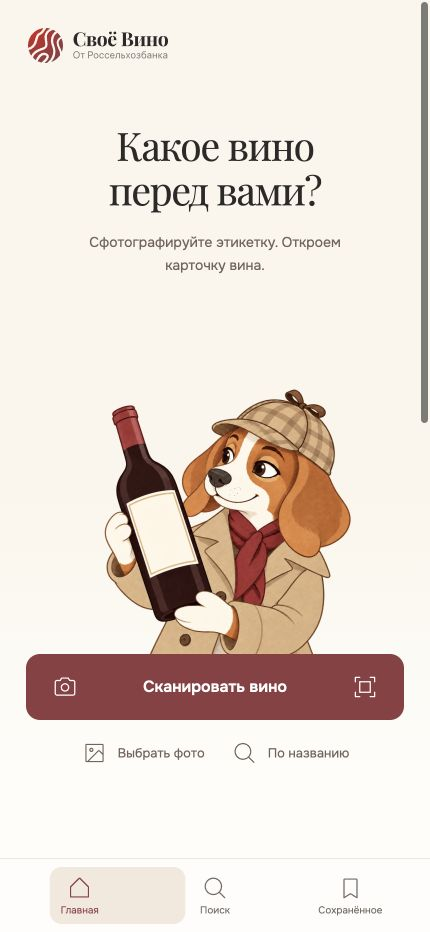
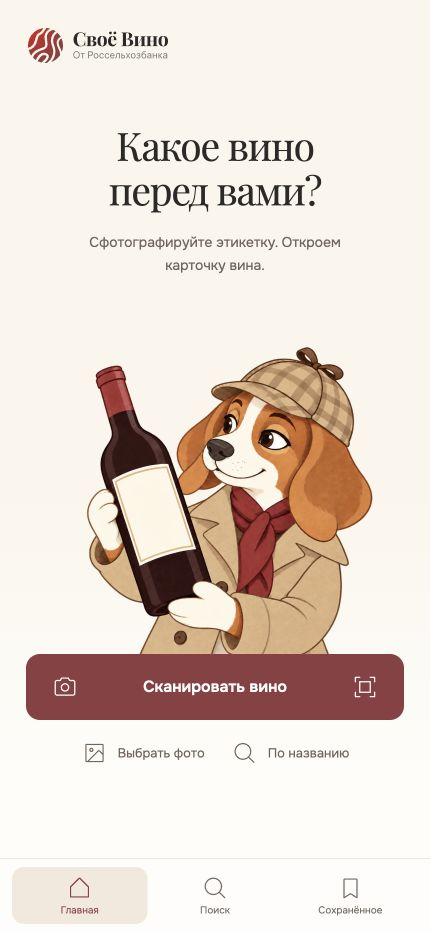
design: calibrate home mascot against current Maks screen

diff --git a/design/wine-ux-v3/air35/review.html b/design/wine-ux-v3/air35/review.html
@@ -2,7 +2,7 @@
 <link rel="stylesheet" href="../styles.css"><style>
 body{background:#f3f0e9;color:#2c2a28;font-family:Onest,Arial,sans-serif}.report{max-width:1190px;margin:auto;padding:56px 28px}.mark{color:#8f3d42;font-size:12px;letter-spacing:.12em;text-transform:uppercase}h1{font:500 clamp(38px,6vw,62px)/1.1 Playfair,Georgia,serif;max-width:850px;margin:22px 0}p{max-width:800px;line-height:1.65;color:#746a65}a{color:#8f3d42;text-underline-offset:5px}.links{display:flex;flex-wrap:wrap;gap:24px;margin:28px 0 36px}.tabs{display:flex;gap:10px;border-bottom:1px solid #ddd4c9;margin:30px 0 20px}.tabs button{min-height:52px;padding:12px 18px;border:0;border-bottom:2px solid transparent;background:none;color:#746a65}.tabs button[aria-pressed=true]{border-bottom-color:#8f3d42;color:#8f3d42}.comparison{display:grid;grid-template-columns:1fr 1fr;gap:36px}.comparison figure{margin:0;min-width:0}.comparison img{width:100%;max-width:430px;display:block;border-radius:30px;border:1px solid #e5dacf;margin:14px auto 0}.comparison figcaption{text-align:center;font-size:13px;color:#746a65}h2{font:500 32px/1.2 Playfair,Georgia,serif;margin-top:48px}.nav-demo{position:relative;max-width:430px;display:grid;grid-template-columns:repeat(3,1fr);background:#fefdfa;border-radius:16px;padding:8px 12px;margin:22px 0}.nav-demo>span{position:absolute;left:12px;top:8px;bottom:8px;width:calc((100% - 24px)/3);border-radius:12px;background:#f3e7dd;transition:transform 320ms cubic-bezier(.22,.8,.3,1);pointer-events:none}.nav-demo button{position:relative;min-height:56px;background:none;border:0;color:#746a65;display:grid;justify-items:center;gap:4px;font-size:11px}.nav-demo button[aria-current=page]{color:#8f3d42}.nav-demo svg{width:26px;height:26px;fill:currentColor}table{border-collapse:collapse;width:100%;margin:20px 0}th,td{text-align:left;padding:14px 10px;border-bottom:1px solid #ddd4c9;font-size:14px;line-height:1.6}details{margin-top:44px;padding-top:20px;border-top:1px solid #ddd4c9}summary{cursor:pointer;padding:10px 0}.fine{font-size:13px}@media(max-width:760px){.report{padding:28px 18px}.tabs{overflow:auto}.tabs button{white-space:nowrap}.comparison{grid-template-columns:1fr;gap:30px}.comparison img{max-width:430px}}@media(prefers-reduced-motion:reduce){.nav-demo>span{transition:none}}
 </style><main class="report"><div class="mark">Своё Вино · Air 3.5</div><h1>Кадр — шире.<br>Действия — согласованнее.</h1><p>Уточнения после использования Maks: возвращаем полный видоискатель, увеличиваем сцену главной, выделяем первый вариант на всю ширину и приводим основные кнопки к одному стилю.</p><div class="links"><a href="./?screen=home">Попробовать все экраны ↗</a><a href="../air/review.html">Предыдущий Air 3.4 ↗</a><a href="behavior-v35.md">Поведение и проверки ↗</a></div>
-<div class="tabs" aria-label="Экран для сравнения"><button data-screen="home" aria-pressed="true">Главная</button><button data-screen="capture" aria-pressed="false">Камера</button><button data-screen="results" aria-pressed="false">Лидер</button><button data-screen="server" aria-pressed="false">Основные кнопки</button></div><p id="explanation">Сцена крупнее; блок сканирования и два вторичных действия опущены вместе. Повторная подсказка на главной в продукте удаляется.</p><div class="comparison"><figure><figcaption>До · Air 3.4</figcaption><a id="before-link" href="../air/review/air-home-430.png"><img id="before" src="../air/review/air-home-430.png" alt="Главная до изменений"></a></figure><figure><figcaption>После · Air 3.5</figcaption><a id="after-link" href="review/home-430.png"><img id="after" src="review/home-430.png" alt="Обновлённая главная"></a></figure></div><p class="fine">Снимки макетов на одинаковой ширине 430 CSS px. Камера и вина здесь демонстрационные; системная галерея и backend проверяются отдельно в приложении.</p><p><a id="try-link" href="./?screen=home">Открыть этот экран ↗</a></p>
+<div class="tabs" aria-label="Экран для сравнения"><button data-screen="home" aria-pressed="true">Главная</button><button data-screen="capture" aria-pressed="false">Камера</button><button data-screen="results" aria-pressed="false">Лидер</button><button data-screen="server" aria-pressed="false">Основные кнопки</button></div><p id="explanation">Сцена крупнее; блок сканирования и два вторичных действия опущены вместе. Повторная подсказка на главной в продукте удаляется.</p><div class="comparison"><figure><figcaption>До · Air 3.4</figcaption><a id="before-link" href="review/home-live-before-430.png"><img id="before" src="review/home-live-before-430.png" alt="Главная до изменений"></a></figure><figure><figcaption>После · Air 3.5</figcaption><a id="after-link" href="review/home-430.png?v=3.5.1"><img id="after" src="review/home-430.png?v=3.5.1" alt="Обновлённая главная"></a></figure></div><p class="fine">Снимки макетов на одинаковой ширине 430 CSS px. Камера и вина здесь демонстрационные; системная галерея и backend проверяются отдельно в приложении.</p><p><a id="try-link" href="./?screen=home">Открыть этот экран ↗</a></p>
 <h2>Подложка действительно переезжает.</h2><p>Попробуйте переключить пункты. Меняется положение одного элемента, а не фон трёх отдельных кнопок. В режиме сокращённого движения переход мгновенный.</p><div class="nav-demo" aria-label="Пример движения навигации"><span aria-hidden="true"></span><button data-nav="0" aria-current="page">Главная</button><button data-nav="1">Поиск</button><button data-nav="2">Сохранённое</button></div>
 <h2>Одна система основных действий.</h2><table><tr><th>Элемент</th><th>Правило</th></tr><tr><td>Все винные основные кнопки</td><td>Onest · 16 px · 600 · line-height 1.25. Минимальная высота 56 px, на главной 66 px.</td></tr><tr><td>Первый кандидат</td><td>Спокойная полоса от края до края. Название, бутылка и текст сохраняют общую ось с остальным списком.</td></tr><tr><td>Камера</td><td>Живое изображение — фон экрана. Крупные действия, контрастные подписи и рамка поверх; без отдельной карточки видоискателя.</td></tr></table>
-<details open><summary>Changelog · Air 3.5 · 25 сентября 2026</summary><p>Полноэкранная камера, расширенная полоса лидера, постоянный индикатор навигации, единая типографика кнопок. На главной увеличена сцена и опущены действия; из реализации убирается повторная подсказка. Air 3.4 сохранён. BDD AIR-024–029 уточняет новые требования; серверный фотопоиск Maks исправляется отдельной задачей с проверкой настоящего API.</p></details></main><script src="../air/icons.js"></script><script src="review.js"></script></html>
+<details open><summary>Changelog · Air 3.5 · 25 сентября 2026</summary><p>Полноэкранная камера, расширенная полоса лидера, постоянный индикатор навигации, единая типографика кнопок. На главной увеличена сцена и опущены действия; из реализации убирается повторная подсказка. Air 3.4 сохранён. BDD AIR-024–029 уточняет новые требования; серверный фотопоиск Maks исправляется отдельной задачей с проверкой настоящего API.</p></details></main><script src="../air/icons.js"></script><script src="review.js?v=3.5.1"></script></html>

diff --git a/design/wine-ux-v3/air35/review.js b/design/wine-ux-v3/air35/review.js
@@ -1,3 +1,3 @@
 const copy={home:'Сцена крупнее; блок сканирования и два вторичных действия опущены вместе. Повторная подсказка на главной в продукте удаляется.',capture:'Изображение занимает всю область камеры. Подписи и крупные кнопки наложены поверх с градиентом для контраста. Никакой карточки внутри экрана.',results:'Лидер заметнее: полоса от края до края, без обрезанного прямоугольника слева. Содержимое выровнено с остальными строками.',server:'Повторить поиск набран тем же шрифтом, размером и весом, что Сканировать вино. Это правило относится ко всем крупным винным кнопкам.'};
-document.querySelectorAll('[data-screen]').forEach(b=>b.addEventListener('click',()=>{const k=b.dataset.screen;document.querySelectorAll('[data-screen]').forEach(n=>n.setAttribute('aria-pressed',String(n===b)));for(const [id,path]of[['before',`../air/review/air-${k}-430.png`],['after',`review/${k}-430.png`]]){document.getElementById(id).src=path;document.getElementById(id).alt=`${id==='before'?'Air 3.4':'Air 3.5'} · ${b.textContent}`;document.getElementById(id+'-link').href=path;}document.getElementById('explanation').textContent=copy[k];document.getElementById('try-link').href=`./?screen=${k}`;}));
+document.querySelectorAll('[data-screen]').forEach(b=>b.addEventListener('click',()=>{const k=b.dataset.screen;document.querySelectorAll('[data-screen]').forEach(n=>n.setAttribute('aria-pressed',String(n===b)));for(const [id,path]of[['before',k==='home'?'review/home-live-before-430.png':`../air/review/air-${k}-430.png`],['after',`review/${k}-430.png?v=3.5.1`]]){document.getElementById(id).src=path;document.getElementById(id).alt=`${id==='before'?'Air 3.4':'Air 3.5'} · ${b.textContent}`;document.getElementById(id+'-link').href=path;}document.getElementById('explanation').textContent=copy[k];document.getElementById('try-link').href=`./?screen=${k}`;}));
 const demo=document.querySelector('.nav-demo');demo.querySelectorAll('button').forEach((b,i)=>{b.innerHTML=`<svg viewBox="0 0 256 256" aria-hidden="true">${AIR_ICONS[['home','search','bookmark'][i]]}</svg>${b.textContent}`;b.addEventListener('click',()=>{demo.querySelector('span').style.transform=`translateX(${i*100}%)`;demo.querySelectorAll('button').forEach(n=>{if(n===b)n.setAttribute('aria-current','page');else n.removeAttribute('aria-current')})})});

diff --git a/design/wine-ux-v3/air35/styles.css b/design/wine-ux-v3/air35/styles.css
@@ -5,7 +5,7 @@
 #screen-stage>.home-screen{flex:1}
 .home-hero{min-height:537px}
 .hero-dog{height:352px}
-.hero-dog .dog{height:365px;width:400px}
+.hero-dog .dog{height:365px;width:400px;transform:scale(1.16);transform-origin:bottom center}
 .btn.primary,.home-scan,.home-scan-copy b{font-family:Onest,Arial,sans-serif;font-size:var(--primary-label-size);font-weight:var(--primary-label-weight);line-height:1.25}
 .btn.primary{min-height:56px}
 .bottom-nav .nav-slider{transition:transform 320ms cubic-bezier(.22,.8,.3,1);will-change:transform;background:#f3e7dd}
@@ -39,8 +39,8 @@
 
 @container prototype (max-width:380px){.results-screen,.capture-immersive{--screen-gutter:20px}.capture-immersive .capture-screen h2{font-size:28px}}
 @media(min-width:901px){.capture-immersive{min-height:858px}}
-@media(max-height:850px){.home-hero{min-height:450px}.hero-dog{height:287px}.hero-dog .dog{height:305px;width:385px}}
-@media(max-height:740px){.home-hero{min-height:365px}.hero-dog{height:219px}.hero-dog .dog{height:233px;width:340px}}
+@media(max-height:850px){.home-hero{min-height:450px}.hero-dog{height:287px}.hero-dog .dog{height:305px;width:385px;transform:scale(1.07)}}
+@media(max-height:740px){.home-hero{min-height:365px}.hero-dog{height:219px}.hero-dog .dog{height:233px;width:340px;transform:none}}
 @media(max-height:740px){.capture-immersive .capture-screen{padding-top:8px}.capture-immersive .capture-screen h2{font-size:26px}.capture-immersive .subcopy{line-height:1.4}.capture-immersive .photo-bottle{padding:160px 70px 170px}.capture-immersive .camera-corners{inset:180px 48px 210px}.capture-immersive .fixture-note{display:none}}
 @media(prefers-reduced-motion:reduce){.bottom-nav .nav-slider{transition:none}}
 @media(max-height:500px) and (orientation:landscape){

diff --git a/design/wine-ux-v3/air35/index.html b/design/wine-ux-v3/air35/index.html
@@ -3,7 +3,7 @@
 <head>
 <meta charset="utf-8"><meta name="viewport" content="width=device-width, initial-scale=1, viewport-fit=cover"><meta name="theme-color" content="#fefdfa">
 <title>Своё Вино · Air · вариант 3.5</title>
-<link rel="stylesheet" href="../styles.css"><link rel="stylesheet" href="styles.css">
+<link rel="stylesheet" href="../styles.css"><link rel="stylesheet" href="styles.css?v=3.5.1">
 <script src="../air/icons.js" defer></script><script src="app.js" defer></script>
 </head>
 <body>

diff --git a/design/wine-ux-v3/air35/README.md b/design/wine-ux-v3/air35/README.md
@@ -47,3 +47,7 @@ Sigma Ops диагностировал старый Maks API: upload 201, search
 
 Продуктовая ветка: codex/air-v35-implementation.
 Публикация/проверки продукта разрешены только на Maks. TEST/PROD не менять.
+
+### Уточнение относительно реальной главной Maks
+
+Главная дополнительно сравнена с живым ea5a985 при 430×932; исходный screenshot сохранён как `review/home-live-before-430.png`. Размер сцены скорректирован относительно реализации, чтобы не уменьшить уже крупного персонажа. CTA y654 вместо y620 в текущем продукте; иконка камеры сохранена. Проверены 402×874, 393×852 и 360×800: действия доступны, горизонтального переполнения нет.
